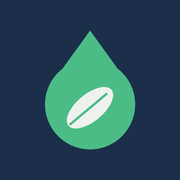
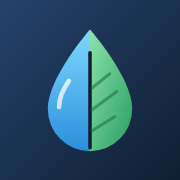
Nuevo icono de la app: gota mitad agua, mitad hoja
Claude-Session: https://claude.ai/code/session_016whyeuvWmXjpnmK3jvZ2dv

diff --git a/sw.js b/sw.js
@@ -1,4 +1,4 @@
-const C='abonado-v58';
+const C='abonado-v59';
 const FILES=['./','./index.html','./manifest.webmanifest','./icon-192.png','./icon-512.png','./apple-touch-icon.png','./pdf-lib.min.js','./nube.js'];
 self.addEventListener('install',e=>{e.waitUntil(caches.open(C).then(c=>c.addAll(FILES)));self.skipWaiting()});
 self.addEventListener('activate',e=>{e.waitUntil(caches.keys().then(ks=>Promise.all(ks.filter(k=>k!==C).map(k=>caches.delete(k)))));self.clients.claim()});
